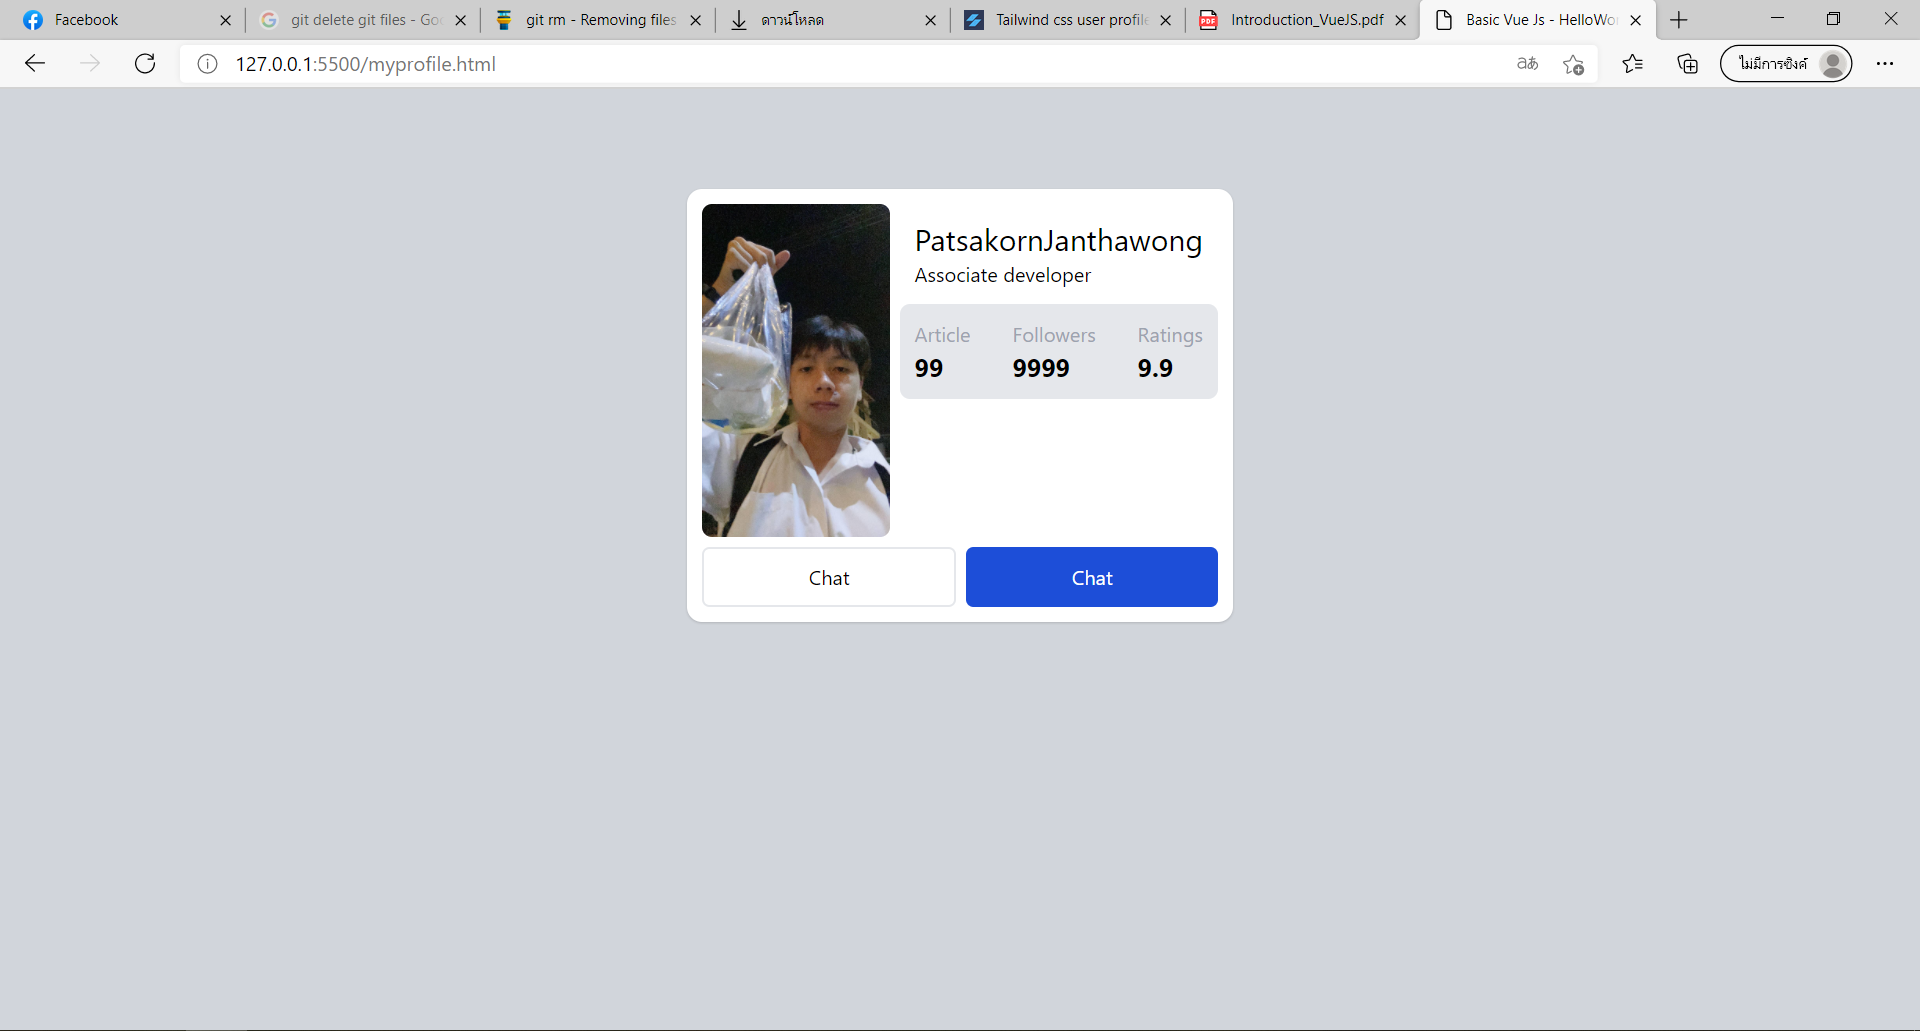
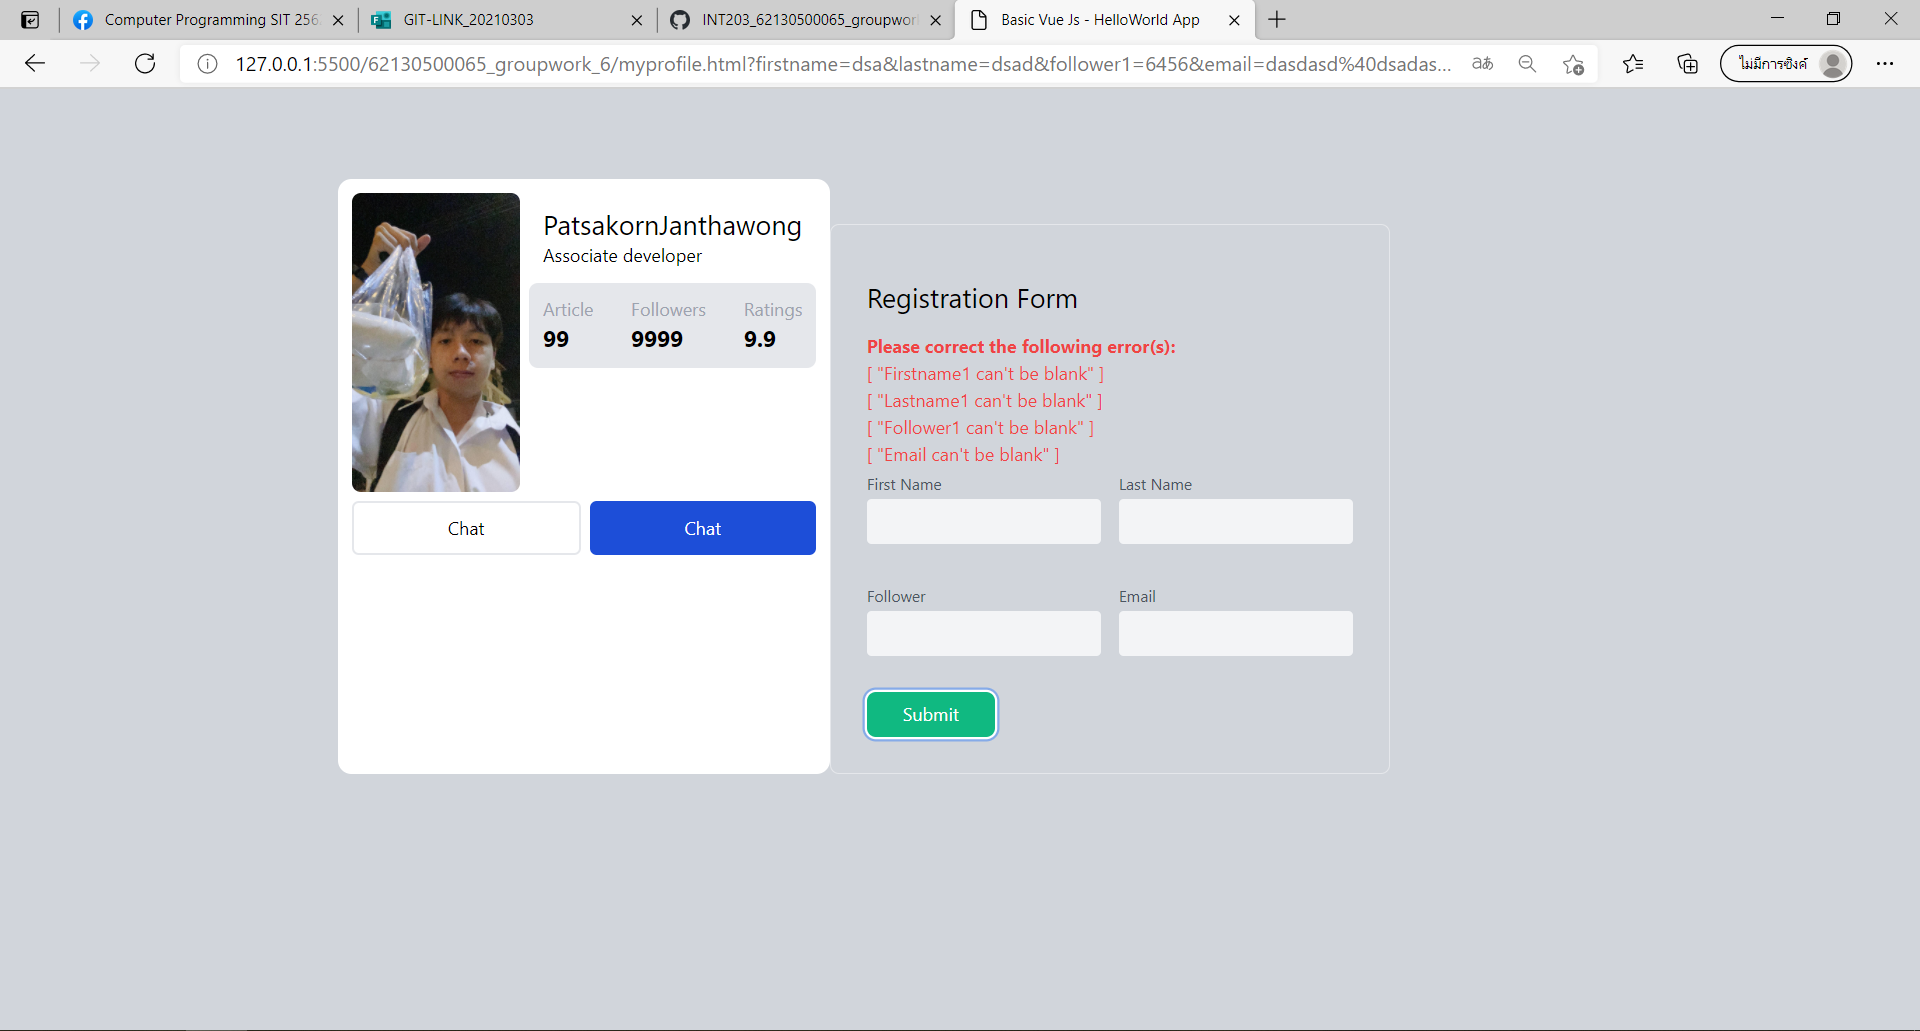
[UPDATE] for preview

Changed region(s): [[0.1562, 0.1552, 0.7188, 0.7759], [0.0, 0.0, 0.875, 0.0931]]

diff --git a/62130500065_groupwork_6/myprofile.html b/62130500065_groupwork_6/myprofile.html
@@ -60,8 +60,12 @@
                             <input type="text" id="lastname" v-model="lastname1" name="lastname" class="bg-gray-100 rounded px-4 py-2 mb-4">
                         </div>
                         <div class="flex flex-col">
-                            <label for="age" class="text-sm leading-7 text-gray-600">follower</label>
-                            <input type="text" id="age" v-model="follower1" name="age" class="bg-gray-100 rounded px-4 py-2 mb-4">
+                            <label for="age" class="text-sm leading-7 text-gray-600">Follower</label>
+                            <input type="text" id="follower1" v-model="follower1" name="follower1" class="bg-gray-100 rounded px-4 py-2 mb-4">
+                        </div>
+                        <div class="flex flex-col">
+                            <label for="email" class="text-sm leading-7 text-gray-600">Email</label>
+                            <input type="text" id="email" v-model="email" name="email" class="bg-gray-100 rounded px-4 py-2 mb-4">
                         </div>
                         <div >
                             <input type="submit" value="Submit" class="px-8 py-2 text-white bg-green-500 rounded-lg hover:bg-green-600 focus:shadow-outline focus:outline-none focus:ring-2 ring-offset-current ring-offset-2">

diff --git a/62130500065_groupwork_6/profile.js b/62130500065_groupwork_6/profile.js
@@ -1,7 +1,6 @@
 const constraints = {
     firstname1: {
         presence: true,
-
     },
     lastname1: {
         presence: true,
@@ -11,6 +10,10 @@ const constraints = {
         numericality: {
             lessThan: 9999999
         }
+    },
+    email:{
+        presence: true,
+        email:true
     }
 
 }
@@ -30,6 +33,7 @@ const constraints = {
                 rating: 9.9,
                 job: 'Associate developer',
                 errors: null,
+                email:null,
 
 
             }
@@ -37,7 +41,8 @@ const constraints = {
             checkForm(e){
                 this.errors = validate({firstname1: this.firstname1,
                                         lastname1: this.lastname1,
-                                        follower1: this.follower1},
+                                        follower1: this.follower1,
+                                        email:this.email},
                                         constraints)
                 if(this.errors){e.preventDefault();  }
                     
